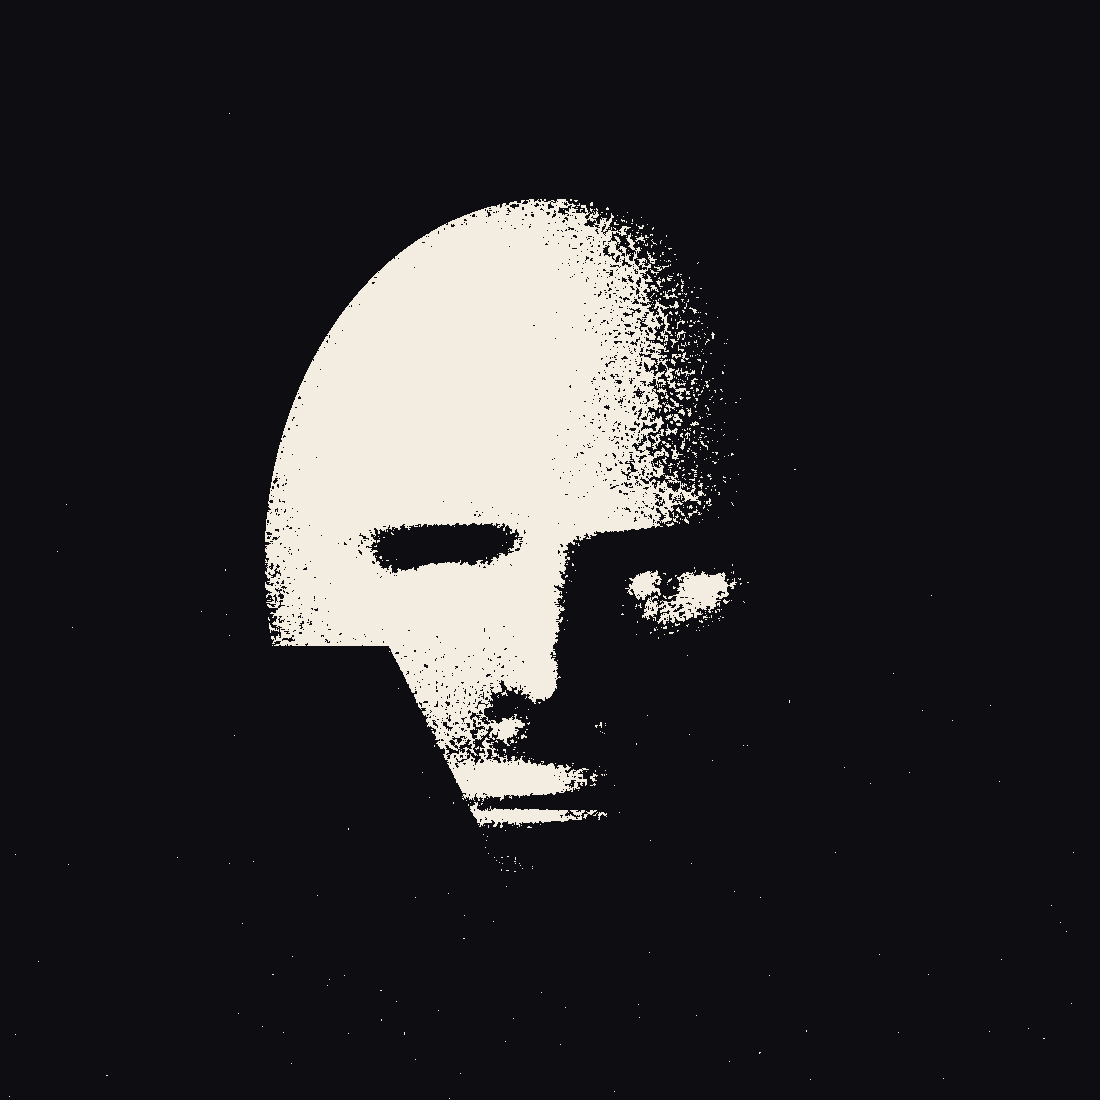
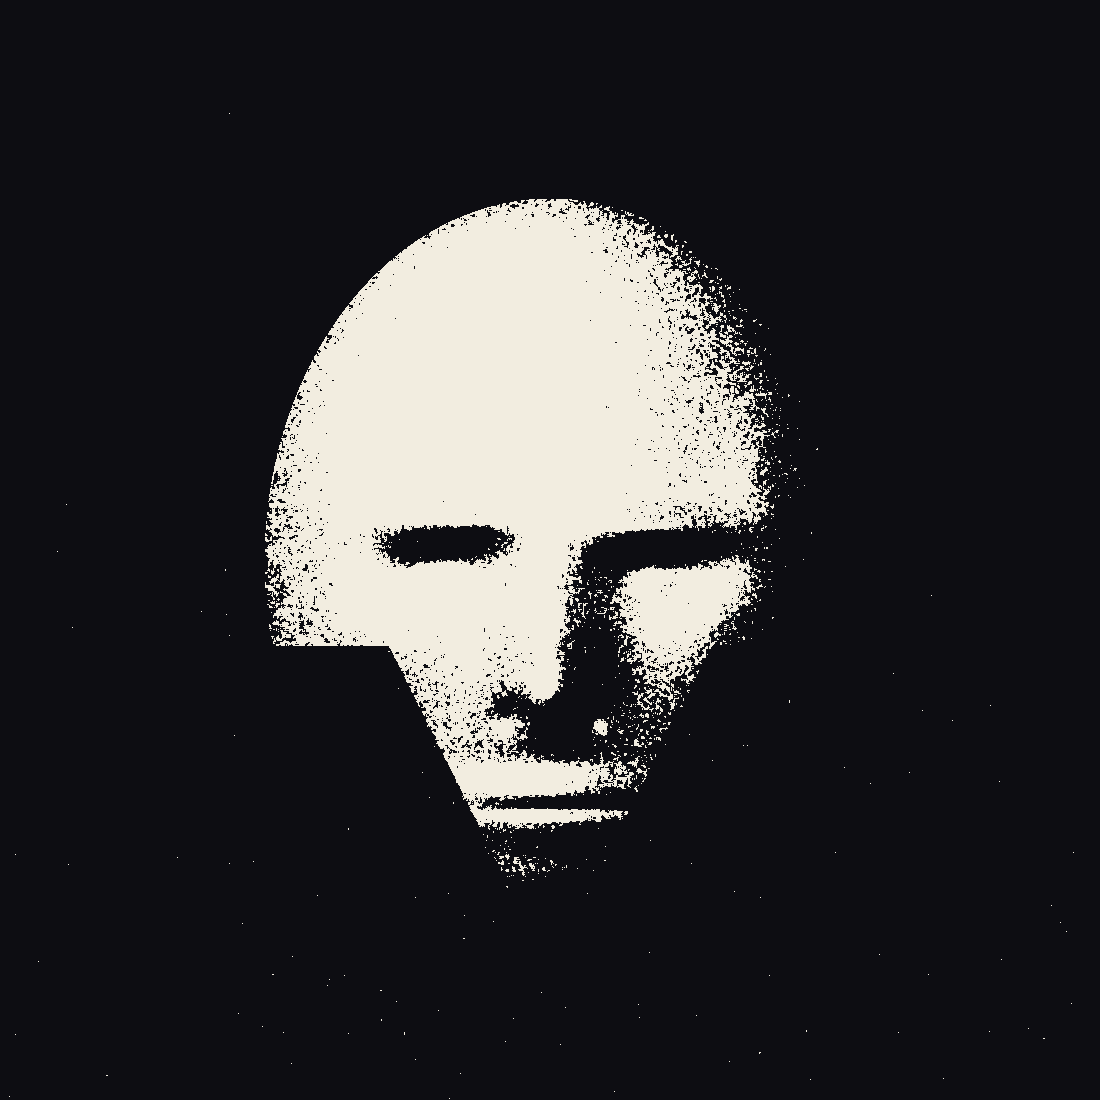
Session 11: refine frontal-face capstone (cheek/temple modelling + frontal light, both eyes read)

diff --git a/portfolio/2026-06-29-halftone-cmyk/src/frontal_face.py b/portfolio/2026-06-29-halftone-cmyk/src/frontal_face.py
@@ -42,14 +42,18 @@ z += g(0.0, 0.44, 0.13, 0.035, 0.09)           # upper lip
 z += g(0.0, 0.50, 0.14, 0.045, 0.11)           # lower lip
 z -= g(0.02, 0.47, 0.10, 0.012, 0.05)          # mouth line (faint downturn via +x offset)
 z += g(0.0, 0.60, 0.16, 0.07, 0.10)            # chin
+z += g(-0.30, 0.16, 0.12, 0.14, 0.07)          # L cheekbone (modelling → less mask-like)
+z += g(0.30, 0.17, 0.12, 0.14, 0.07)           # R cheekbone
+z += g(-0.40, -0.10, 0.08, 0.18, 0.05)         # L temple
+z += g(0.40, -0.09, 0.08, 0.18, 0.05)          # R temple
 z = smooth(np.where(inside, z, 0), 3)
 
 gx = np.gradient(z, axis=1) * W * 0.5
 gy = np.gradient(z, axis=0) * H * 0.5
 ln = np.sqrt(gx * gx + gy * gy + 1)
-L = np.array([-0.5, -0.45, 0.74]); L /= np.linalg.norm(L)
+L = np.array([-0.32, -0.40, 0.86]); L /= np.linalg.norm(L)
 lam = np.clip((-gx * L[0] - gy * L[1] + L[2]) / ln, 0, 1)
-tone = np.where(inside, 0.05 + 0.95 * lam ** 1.25, 0.04 + 0.05 * (v + 1))
+tone = np.where(inside, 0.14 + 0.86 * lam ** 1.1, 0.04 + 0.05 * (v + 1))
 dark = np.clip(1 - tone, 0, 1)
 
 gr = smooth(rng.random((H, W)), 1)